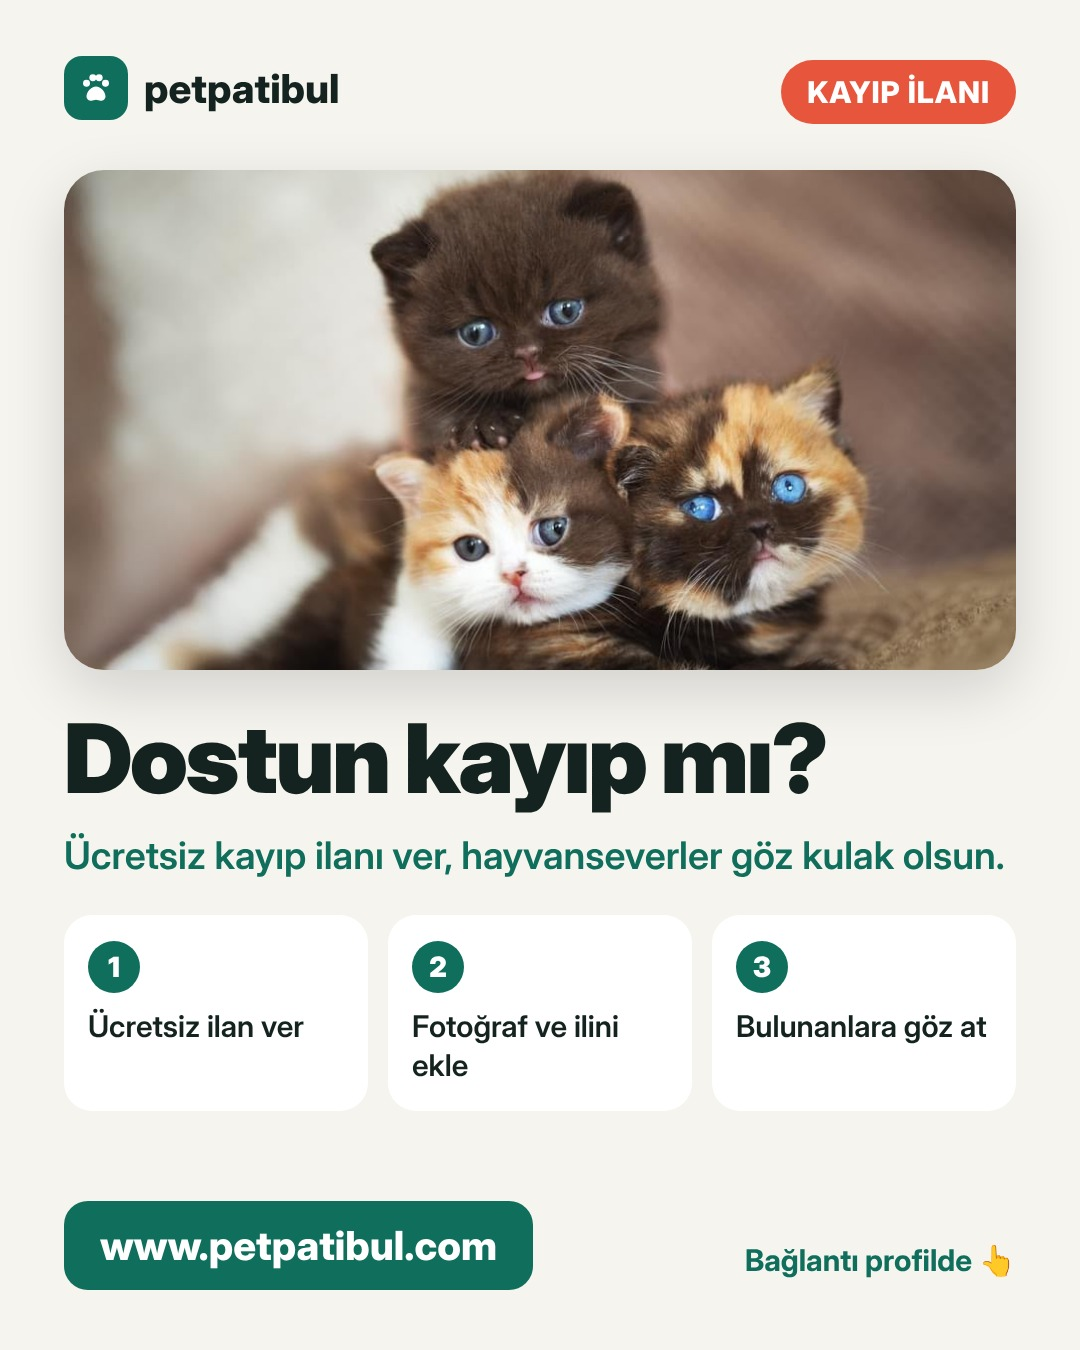
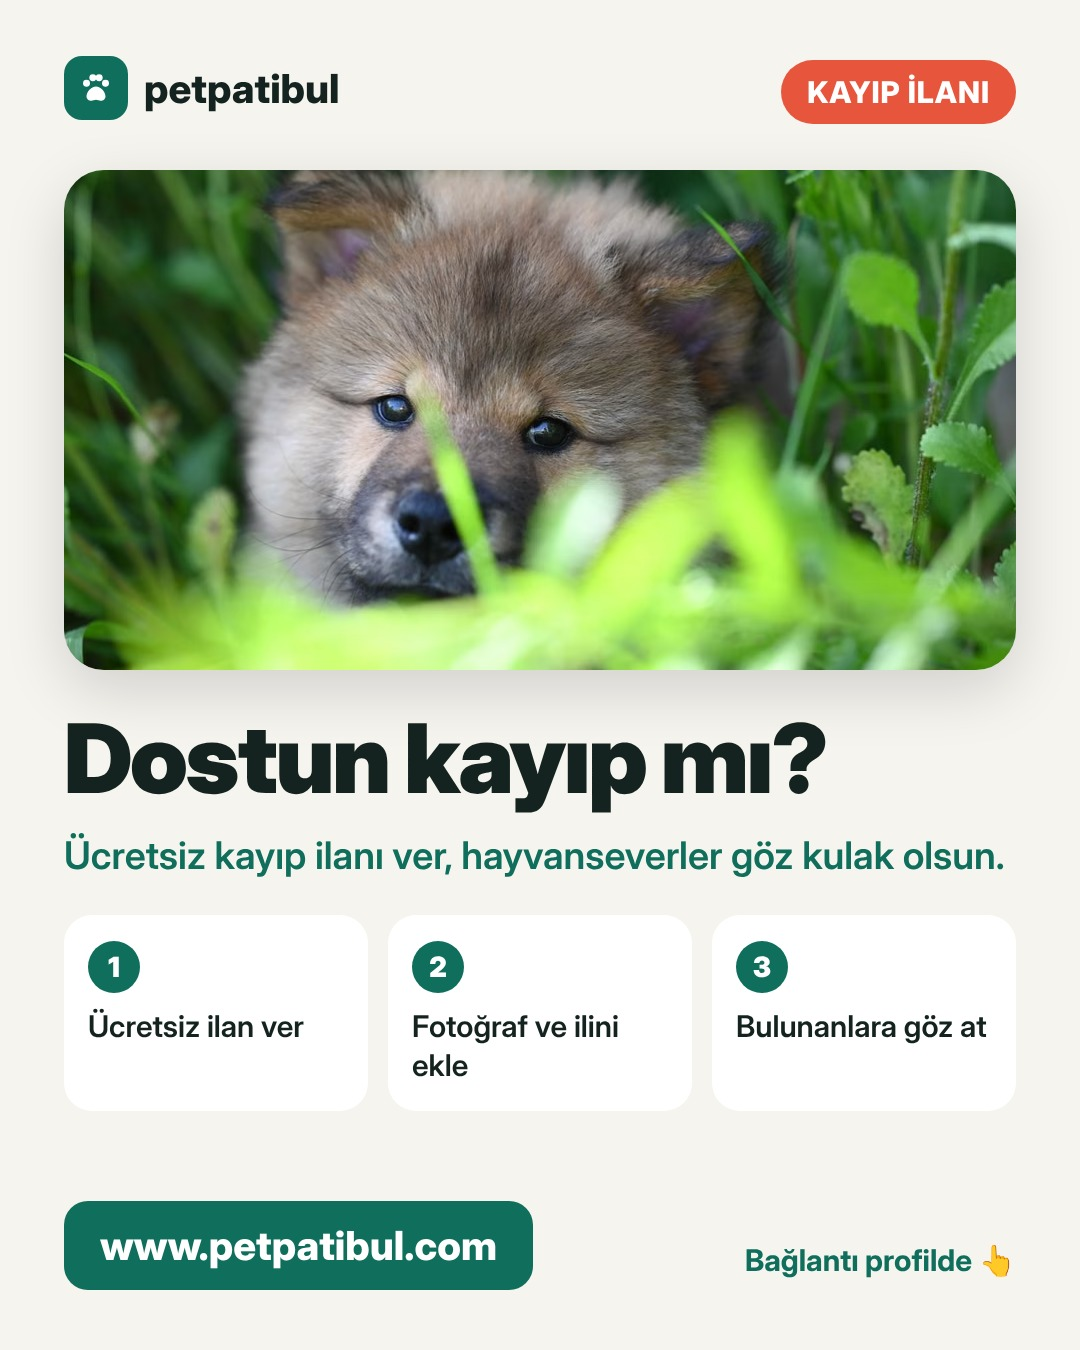
Günlük sırayı yalnızca ücretsiz lisanslı görsellere çevir, kayıp ilanı görselini yenile
Claude-Session: https://claude.ai/code/session_011faSXV9J21JmsdnfYrQVob

diff --git a/instagram-petpatibul/TALIMAT.md b/instagram-petpatibul/TALIMAT.md
@@ -4,14 +4,12 @@ Her gün 20:00 (İstanbul) civarında @petpatibul hesabına 1 gönderi paylaşı
 
 1. `havuz.json` dosyasını oku (dal: `claude/project-thread-qzxkap`).
 2. Sıra:
-   - Önce `fotograflar` listesinde `paylasildi` boş olan İLK kayıt. Görsel adresi:
-     `https://raw.githubusercontent.com/yasinakyurekk-maker/All-repositories/claude/project-thread-qzxkap/instagram-petpatibul/fotograflar/<dosya>`
-     Açıklama olarak kayıttaki `aciklama` metnini aynen kullan.
-   - Bunlar bitince `pexels_sirasi` listesinde `paylasildi` boş olan İLK kayıt. `image_url` adresini kullan.
+   - Kullanıcının kendi fotoğrafları KULLANILMAZ (kullanıcı isteği). `fotograflar` listesi sadece geçmiş kayıttır.
+   - `pexels_sirasi` listesinde `paylasildi` boş olan İLK kayıt. `image_url` adresini kullan.
      `konu` alanına göre kısa, sıcak, Türkçe bir açıklama yaz (1-2 cümle, 2-3 emoji, petpatibul.com'a / profildeki bağlantıya davet),
      ardından boş satır ve `📸 Pexels`, sonra boş satır ve hashtagler:
      `#petpatibul #evcilhayvan #patilidostlar #minnoş` + konuya uygun 3-4 tane (#kedi #yavrukedi #köpek #yavruköpek #kittens #puppies gibi).
-   - İkisi de bittiyse paylaşım YAPMA, kullanıcıya fotoğrafların bittiğini bildir.
+   - Liste bittiyse paylaşım YAPMA, kullanıcıya fotoğrafların bittiğini bildir.
 3. Windsor.ai `execute_action` ile paylaş: connector `instagram`, account `17841475688039101`,
    action `create_image_post`, params `{image_url, caption, alt_text}` (alt_text: fotoğrafın kısa Türkçe tarifi).
 4. Başarılıysa kaydın `paylasildi` alanına tarihi (YYYY-AA-GG) ve `media_id` yaz, commit edip aynı dala push et.
